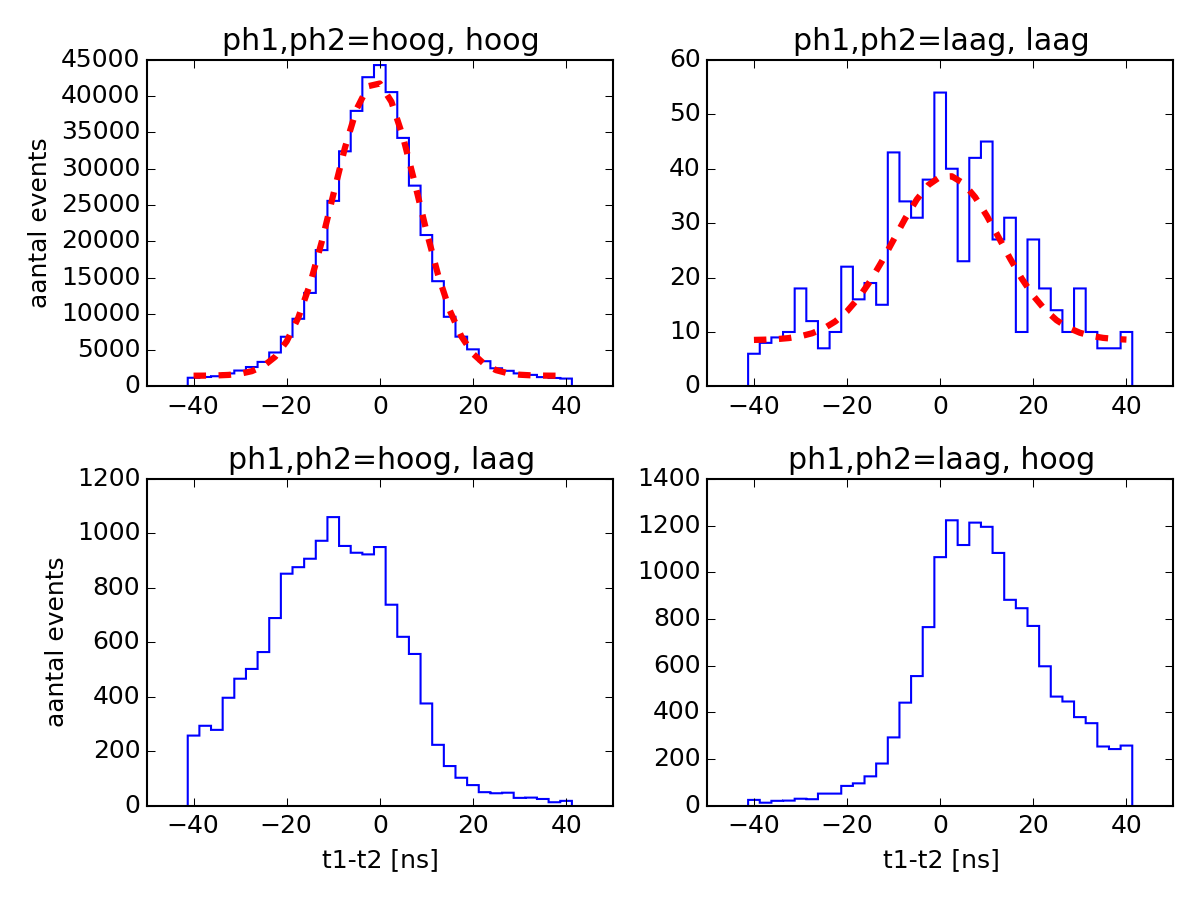
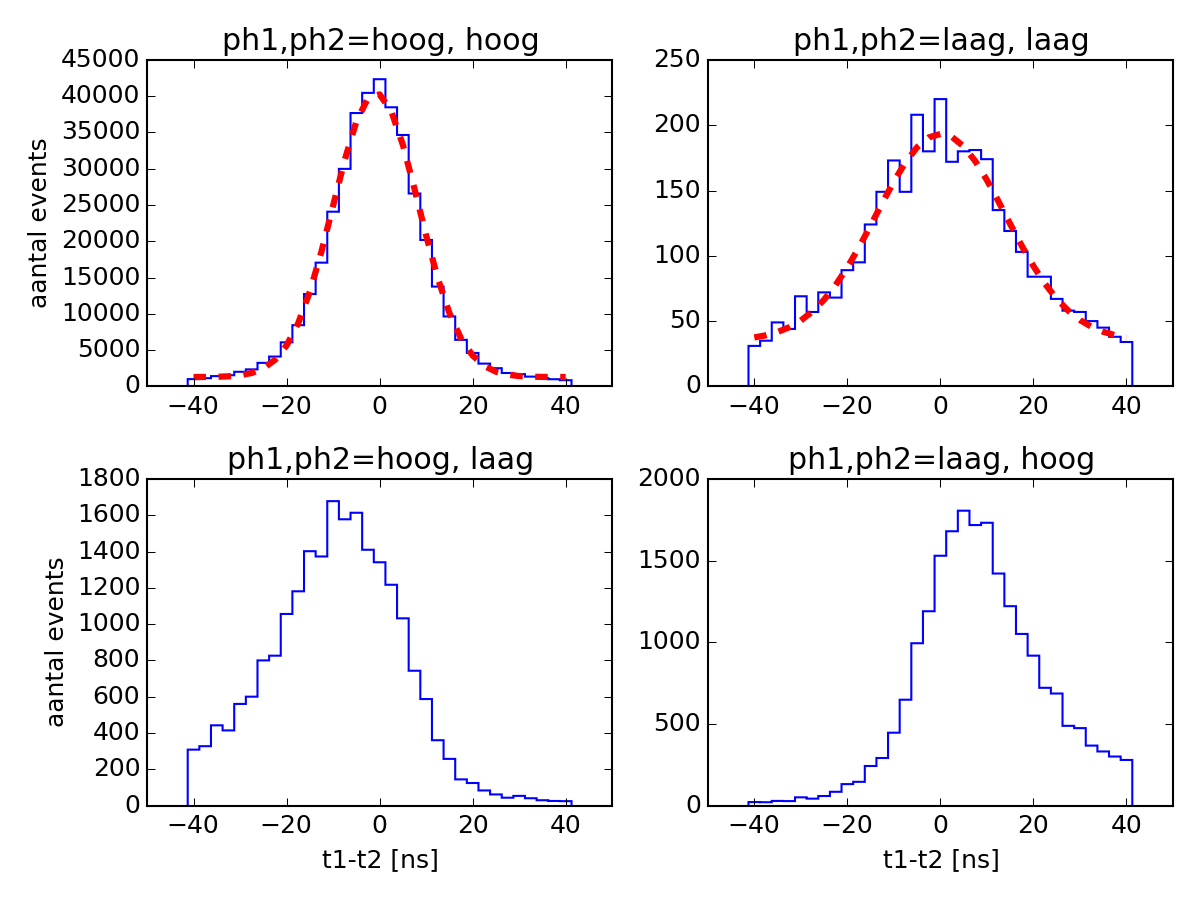
new plots according to pennink

diff --git a/pennink_figures/s501_april_2010_VIER_PLOTS.py b/pennink_figures/s501_april_2010_VIER_PLOTS.py
@@ -33,7 +33,7 @@ FILENAME = 'station_501_april2010.h5'
 # These values are consistent with a pulseheight histogram
 #
 HIGH_PH = 200
-LOW_PH = 60
+LOW_PH = 120
 
 
 #
@@ -83,11 +83,11 @@ def do_it():
 
     dt_all = (t1-t2).compress((t1 > 0) & (t2 > 0) & ((t1-t2) < 50.))
     dt_t1hoog_t2laag = (t1-t2).compress((t1 > 0) & (t2 > 0) & ((t1-t2) < 50.)
-                                        & (ph2 < LOW_PH) & (ph1 > HIGH_PH))
+                                        & (ph2 < LOW_PH) & (ph2 > 0.) & (ph1 > HIGH_PH))
     dt_t1laag_t2hoog = (t1-t2).compress((t1 > 0) & (t2 > 0) & ((t1-t2) < 50.)
-                                        & (ph2 > HIGH_PH) & (ph1 < LOW_PH))
+                                        & (ph2 > HIGH_PH) & (ph1 < LOW_PH) & (ph1 > 0.) )
     dt_t1laag_t2laag = (t1-t2).compress((t1 > 0) & (t2 > 0) & ((t1-t2) < 50.)
-                                        & (ph1 < LOW_PH) & (ph2 < LOW_PH))
+                                        & (ph1 < LOW_PH) & (ph2 < LOW_PH) & (ph1 > 0.) & (ph2 < LOW_PH) )
 
     grafiek = plt.figure()
     grafiek11 = grafiek.add_subplot(221)

diff --git a/pennink_figures/s501_jan_mei_2014.py b/pennink_figures/s501_jan_mei_2014.py
@@ -22,9 +22,9 @@ XKCD = False
 
 STATION = 501
 STATIONS = [STATION]
-START = datetime.datetime(2014, 4, 1)
-END = datetime.datetime(2014, 5, 1)
-FILENAME = 'station_501_april2014.h5'
+START = datetime.datetime(2014, 1, 1)
+END = datetime.datetime(2014, 4, 1)
+FILENAME = 'station_501_jan_mrt_2014.h5'
 
 #
 # Pennink, 2010 p32 specifies these cutoff ADC counts
